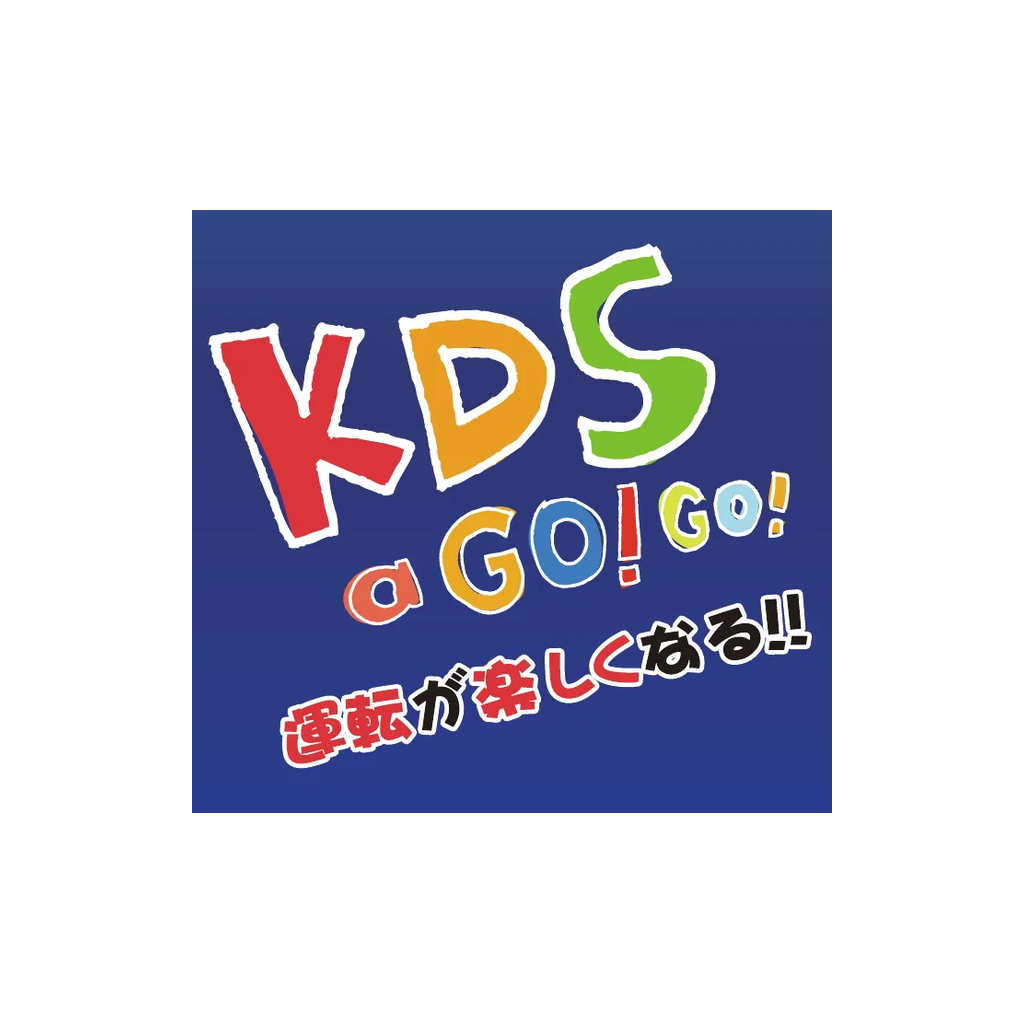
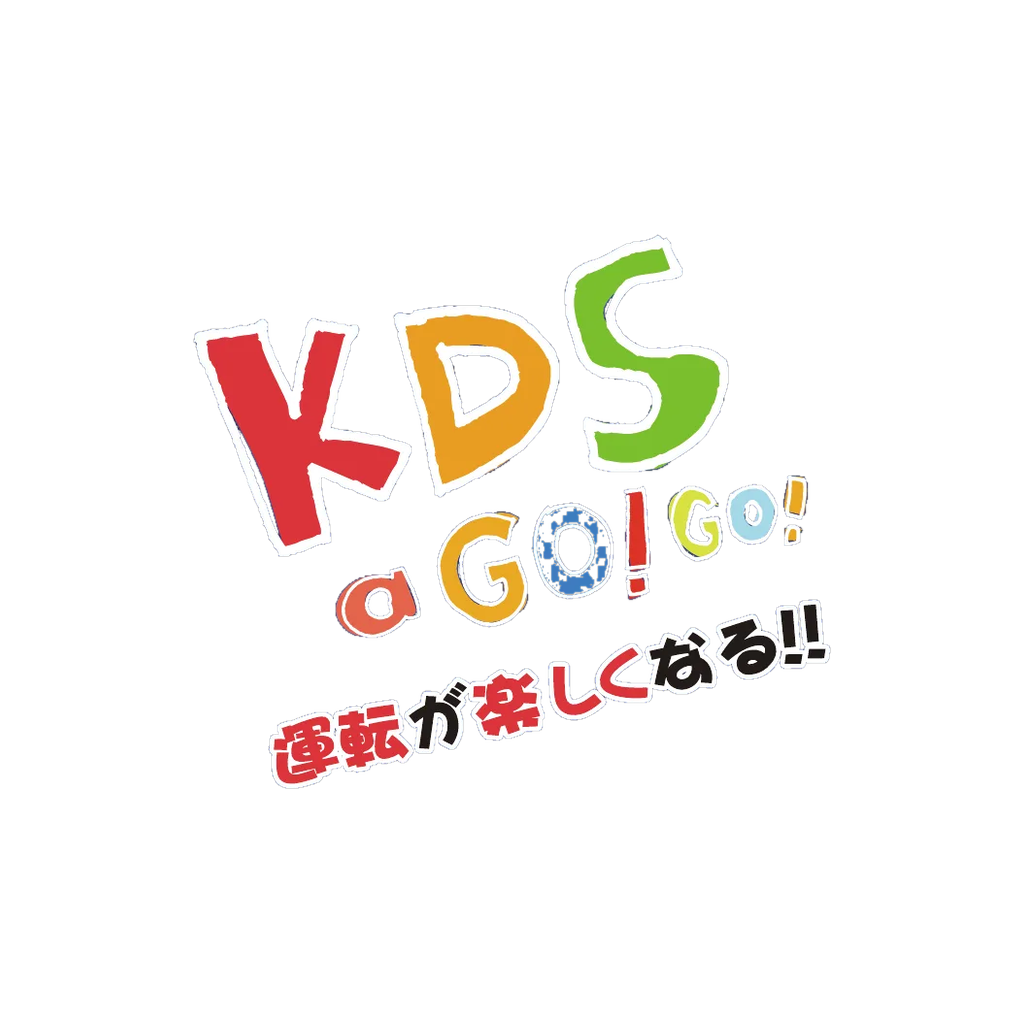
アイコンをロゴの切り抜きで作り直し、ホームのボタンを調整
- アプリアイコン: カード裏面から文字だけを切り抜いて透過素材にし、
  紺のグラデーション背景に合成。背景の継ぎ目が出ないようにした
  （iOS/Android/favicon/スプラッシュすべて作り直し）
- ホームのアイコンを実カード画像に
  対戦＝自分と相手のカードを交差、カード図鑑＝渋谷(華)、デッキ構築＝カード裏面
- ボタンの角に四角い影が残る問題を修正（影を持つ層にも角丸を付ける）
- 振動の判定を読み込み時の定数に変更（React Compilerのメモ化で
  再評価されず、案内が出ないことがあったため）。使えない端末では
  ボタンを押せなくし、対戦準備画面にも理由を明記

diff --git a/src/app/settings.tsx b/src/app/settings.tsx
@@ -1,7 +1,7 @@
 import { useRouter } from "expo-router";
 import React, { useState } from "react";
 import { Pressable, ScrollView, StyleSheet, Text, View } from "react-native";
-import { hapticsAvailable } from "@/audio/haptics";
+import { HAPTICS_AVAILABLE } from "@/audio/haptics";
 import { useGameStore } from "@/store/gameStore";
 import { useSettingsStore } from "@/store/settingsStore";
 import { colors } from "@/theme";
@@ -46,16 +46,22 @@ export default function SettingsScreen() {
       <View style={styles.row}>
         <Choice label={`効果音 ${seEnabled ? "ON" : "OFF"}`} active={seEnabled} onPress={() => setSeEnabled(!seEnabled)} />
         <Choice label={`BGM ${bgmEnabled ? "ON" : "OFF"}`} active={bgmEnabled} onPress={() => setBgmEnabled(!bgmEnabled)} />
-        <Choice label={`振動 ${hapticsEnabled ? "ON" : "OFF"}`} active={hapticsEnabled} onPress={() => setHapticsEnabled(!hapticsEnabled)} />
+        <Choice
+          label={HAPTICS_AVAILABLE ? `振動 ${hapticsEnabled ? "ON" : "OFF"}` : "振動 なし"}
+          active={HAPTICS_AVAILABLE && hapticsEnabled}
+          disabled={!HAPTICS_AVAILABLE}
+          onPress={() => HAPTICS_AVAILABLE && setHapticsEnabled(!hapticsEnabled)}
+        />
       </View>
 
       <Text style={styles.note}>
         CPUの強さは対戦開始時にだけ選べます。サウンドの変更はすぐに反映されます。
       </Text>
-      {!hapticsAvailable() && (
+      {!HAPTICS_AVAILABLE && (
         <Text style={styles.note}>
-          ※ この端末（iPhoneのブラウザ）では振動が使えません。App Store 版・TestFlight 版の
-          アプリでは振動します。
+          ※ iPhoneのブラウザには振動の仕組みが無いため、この端末では振動しません
+          （ホーム画面に追加した場合も同じです）。App Store・TestFlight で配布する
+          アプリ版では振動します。
         </Text>
       )}
 
@@ -117,17 +123,32 @@ function Choice({
   label,
   active,
   onPress,
+  disabled,
 }: {
   label: string;
   active: boolean;
   onPress: () => void;
+  disabled?: boolean;
 }) {
   return (
     <Pressable
       onPress={onPress}
-      style={[styles.choice, active && { backgroundColor: colors.primary, borderColor: colors.primary }]}
+      disabled={disabled}
+      style={[
+        styles.choice,
+        active && { backgroundColor: colors.primary, borderColor: colors.primary },
+        disabled && { backgroundColor: colors.background, borderStyle: "dashed" },
+      ]}
     >
-      <Text style={[styles.choiceText, active && { color: "#fff" }]}>{label}</Text>
+      <Text
+        style={[
+          styles.choiceText,
+          active && { color: "#fff" },
+          disabled && { color: colors.textMuted },
+        ]}
+      >
+        {label}
+      </Text>
     </Pressable>
   );
 }

diff --git a/src/app/prematch.tsx b/src/app/prematch.tsx
@@ -3,6 +3,7 @@ import React from "react";
 import { Pressable, ScrollView, StyleSheet, Text, View } from "react-native";
 import { DIFFICULTY_LABELS } from "@/ai/difficulty";
 import { Difficulty } from "@/ai/types";
+import { HAPTICS_AVAILABLE } from "@/audio/haptics";
 import { cpuDeckFor, resolveActiveDeck, useDeckStore } from "@/store/deckStore";
 import { useGameStore } from "@/store/gameStore";
 import { useSettingsStore } from "@/store/settingsStore";
@@ -114,11 +115,19 @@ export default function PrematchScreen() {
             onPress={() => setBgmEnabled(!bgmEnabled)}
           />
           <Choice
-            label={`振動 ${hapticsEnabled ? "ON" : "OFF"}`}
-            active={hapticsEnabled}
-            onPress={() => setHapticsEnabled(!hapticsEnabled)}
+            label={HAPTICS_AVAILABLE ? `振動 ${hapticsEnabled ? "ON" : "OFF"}` : "振動 なし"}
+            active={HAPTICS_AVAILABLE && hapticsEnabled}
+            disabled={!HAPTICS_AVAILABLE}
+            onPress={() => HAPTICS_AVAILABLE && setHapticsEnabled(!hapticsEnabled)}
           />
         </View>
+        {!HAPTICS_AVAILABLE && (
+          <Text style={styles.hapticNote}>
+            ※ iPhoneのブラウザには振動の仕組みが無いため、この端末では振動しません
+            （ホーム画面に追加した場合も同じです）。App Store・TestFlight で配布する
+            アプリ版では振動します。
+          </Text>
+        )}
       </ScrollView>
 
       <View style={styles.footer}>
@@ -134,17 +143,32 @@ function Choice({
   label,
   active,
   onPress,
+  disabled,
 }: {
   label: string;
   active: boolean;
   onPress: () => void;
+  disabled?: boolean;
 }) {
   return (
     <Pressable
       onPress={onPress}
-      style={[styles.choice, active && { backgroundColor: colors.primary, borderColor: colors.primary }]}
+      disabled={disabled}
+      style={[
+        styles.choice,
+        active && { backgroundColor: colors.primary, borderColor: colors.primary },
+        disabled && styles.choiceDisabled,
+      ]}
     >
-      <Text style={[styles.choiceText, active && { color: "#fff" }]}>{label}</Text>
+      <Text
+        style={[
+          styles.choiceText,
+          active && { color: "#fff" },
+          disabled && { color: colors.textMuted },
+        ]}
+      >
+        {label}
+      </Text>
     </Pressable>
   );
 }
@@ -189,6 +213,13 @@ const styles = StyleSheet.create({
     alignItems: "center",
   },
   choiceText: { fontWeight: "700", color: colors.text },
+  choiceDisabled: { backgroundColor: colors.background, borderStyle: "dashed" },
+  hapticNote: {
+    fontSize: 12,
+    lineHeight: 18,
+    color: colors.textMuted,
+    marginTop: 4,
+  },
   footer: {
     padding: 12,
     backgroundColor: colors.surface,

diff --git a/src/app/index.tsx b/src/app/index.tsx
@@ -101,7 +101,7 @@ export default function HomeScreen() {
 
           <AppButton
             label="対戦"
-            icon="⚔"
+            iconNode={<CrossedCards />}
             tone="primary"
             size="lg"
             feel="medium"
@@ -141,7 +141,13 @@ export default function HomeScreen() {
             />
             <AppButton
               label="カード図鑑"
-              icon="🔍"
+              iconNode={
+                <Image
+                  source={cardSmalls["i_shibuya_hana"]}
+                  style={styles.buttonCardIcon}
+                  contentFit="cover"
+                />
+              }
               tone="primary"
               style={styles.flex}
               onPress={() => router.push("/library")}
@@ -159,6 +165,24 @@ export default function HomeScreen() {
         <Text style={styles.footer}>KDSトレーディングカードゲーム（非公式デジタル版）</Text>
       </SafeAreaView>
     </LinearGradient>
+  );
+}
+
+/** 対戦ボタン用：自分のカードと相手のカードを交差させたアイコン */
+function CrossedCards() {
+  return (
+    <View style={styles.crossWrap}>
+      <Image
+        source={cardSmalls["i_konno"]}
+        style={[styles.crossCard, styles.crossLeft]}
+        contentFit="cover"
+      />
+      <Image
+        source={cardSmalls["cardback"]}
+        style={[styles.crossCard, styles.crossRight]}
+        contentFit="cover"
+      />
+    </View>
   );
 }
 
@@ -284,6 +308,17 @@ const styles = StyleSheet.create({
     borderWidth: 1,
     borderColor: "#ffffff88",
   },
+  crossWrap: { width: 40, height: 30, alignItems: "center", justifyContent: "center" },
+  crossCard: {
+    position: "absolute",
+    width: 21,
+    height: 29,
+    borderRadius: 3,
+    borderWidth: 1,
+    borderColor: "#ffffffaa",
+  },
+  crossLeft: { transform: [{ translateX: -8 }, { rotate: "-18deg" }] },
+  crossRight: { transform: [{ translateX: 8 }, { rotate: "18deg" }] },
   matchupCard: {
     flexDirection: "row",
     alignItems: "center",

diff --git a/src/audio/haptics.ts b/src/audio/haptics.ts
@@ -69,13 +69,31 @@ export function haptic(kind: Tap): void {
   }
 }
 
-/** この端末で振動が使えるか（設定画面の案内に使う） */
-export function hapticsAvailable(): boolean {
-  if (Platform.OS !== "web") return true;
+/** この端末で振動が使えるか（読み込み時に1回だけ判定する） */
+function computeHapticsAvailable(): boolean {
+  if (Platform.OS !== "web") return true; // アプリ版は常に使える
   try {
-    const nav = globalThis.navigator as Navigator & { vibrate?: unknown };
+    const nav = globalThis.navigator as Navigator & {
+      vibrate?: unknown;
+      maxTouchPoints?: number;
+    };
+    // iPhone / iPad のブラウザは振動の仕組みを持たない
+    // （iPadOS は Macintosh を名乗るので、タッチ点数でも判定する）
+    const ua = nav?.userAgent ?? "";
+    const isApple =
+      /iPad|iPhone|iPod/.test(ua) ||
+      (ua.includes("Macintosh") && (nav?.maxTouchPoints ?? 0) > 1);
+    if (isApple) return false;
     return typeof nav?.vibrate === "function";
   } catch {
     return false;
   }
+}
+
+/** 端末が振動に対応しているか。画面の表示切り替えに使う */
+export const HAPTICS_AVAILABLE = computeHapticsAvailable();
+
+/** 後方互換のための関数版 */
+export function hapticsAvailable(): boolean {
+  return HAPTICS_AVAILABLE;
 }

diff --git a/src/components/AppButton.tsx b/src/components/AppButton.tsx
@@ -79,6 +79,7 @@ export function AppButton({
   return (
     <Animated.View
       style={[
+        styles.shadowWrap,
         shadow.button,
         animatedStyle,
         fullWidth && styles.fullWidth,
@@ -128,6 +129,8 @@ export function AppButton({
 }
 
 const styles = StyleSheet.create({
+  // 影は角丸に沿わせる（四角い影が角に残らないように）
+  shadowWrap: { borderRadius: radius.md, backgroundColor: "transparent" },
   base: {
     borderRadius: radius.md,
     alignItems: "center",
